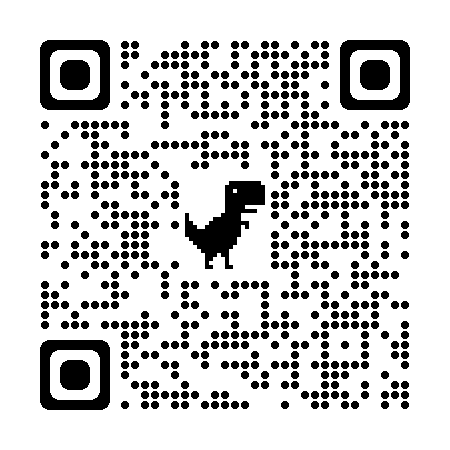
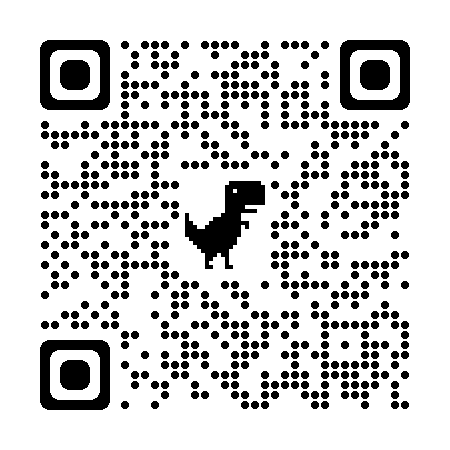
Atualizacao do site - Wireframe

diff --git a/style.css b/style.css
@@ -165,6 +165,35 @@ main h2 {
   border: 0;
 }
 
+/* Wireframe */
+#wireframe {
+  padding: 50px 0px;
+  background: url(img/background.png);
+  background-size: cover;
+  background-position: center;
+}
+
+#textoWire {
+  color: #fff;
+  padding: 0px 10px;
+}
+
+#textoWire h2 {
+  margin-bottom: 10px;
+}
+
+#textoWire p {
+  margin-bottom: 40px;
+}
+
+#textoWire span {
+  display: none;
+}
+
+#qrcode {
+  display: none;
+}
+
 /***************************** Smartphone landscape */
 @media (min-width: 576px) {
 
@@ -280,9 +309,27 @@ main h2 {
   }
 
   /* One page */
-  .Flex3{
-    direction: row;
+   .Flex3{
+    flex-direction: row;
     align-items: center;
     text-align: center;
+  } 
+
+  /* Wireframe */
+  #wireframe {
+    background-attachment: fixed;
+  }
+
+  #wireframe span {
+    display: inline;
+  }
+
+  #qrcode {
+    display: inline;
+  }
+
+  #qrcode img{
+    width: 225px;
+    height: 225px;
   }
 }

diff --git a/index.html b/index.html
@@ -74,13 +74,15 @@
   </section>  
   <!-- Wireframe -->  
   <section id="wireframe">
-    <div class="Container">
+    <div class="Container Flex2">
       <div id="textoWire">
         <h2>Wireframe</h2>
         <p>Wireframe é uma representação visual da estrutura básica de um página. Ele deve ser feito da maneira mais simples possível, mostrando apenas o essencial, como uma espécie de rascunho, sem cores ou imagens. Clique no botão <span>ou escaneie o QR Code</span> para obter o wireframe desta página.</p>
-        <a href="wireframe.pdf" target="_blank">PDF</a>
+        <a href="wireframe.pdf" target="_blank" class="Botao">PDF</a>
       </div>
-      <div id="qrcode"></div>
+      <div id="qrcode">
+        <img src="img/qrcode.png" alt="qrcode">
+      </div>
     </div>
   </section>  
   <!-- Conteudo -->
